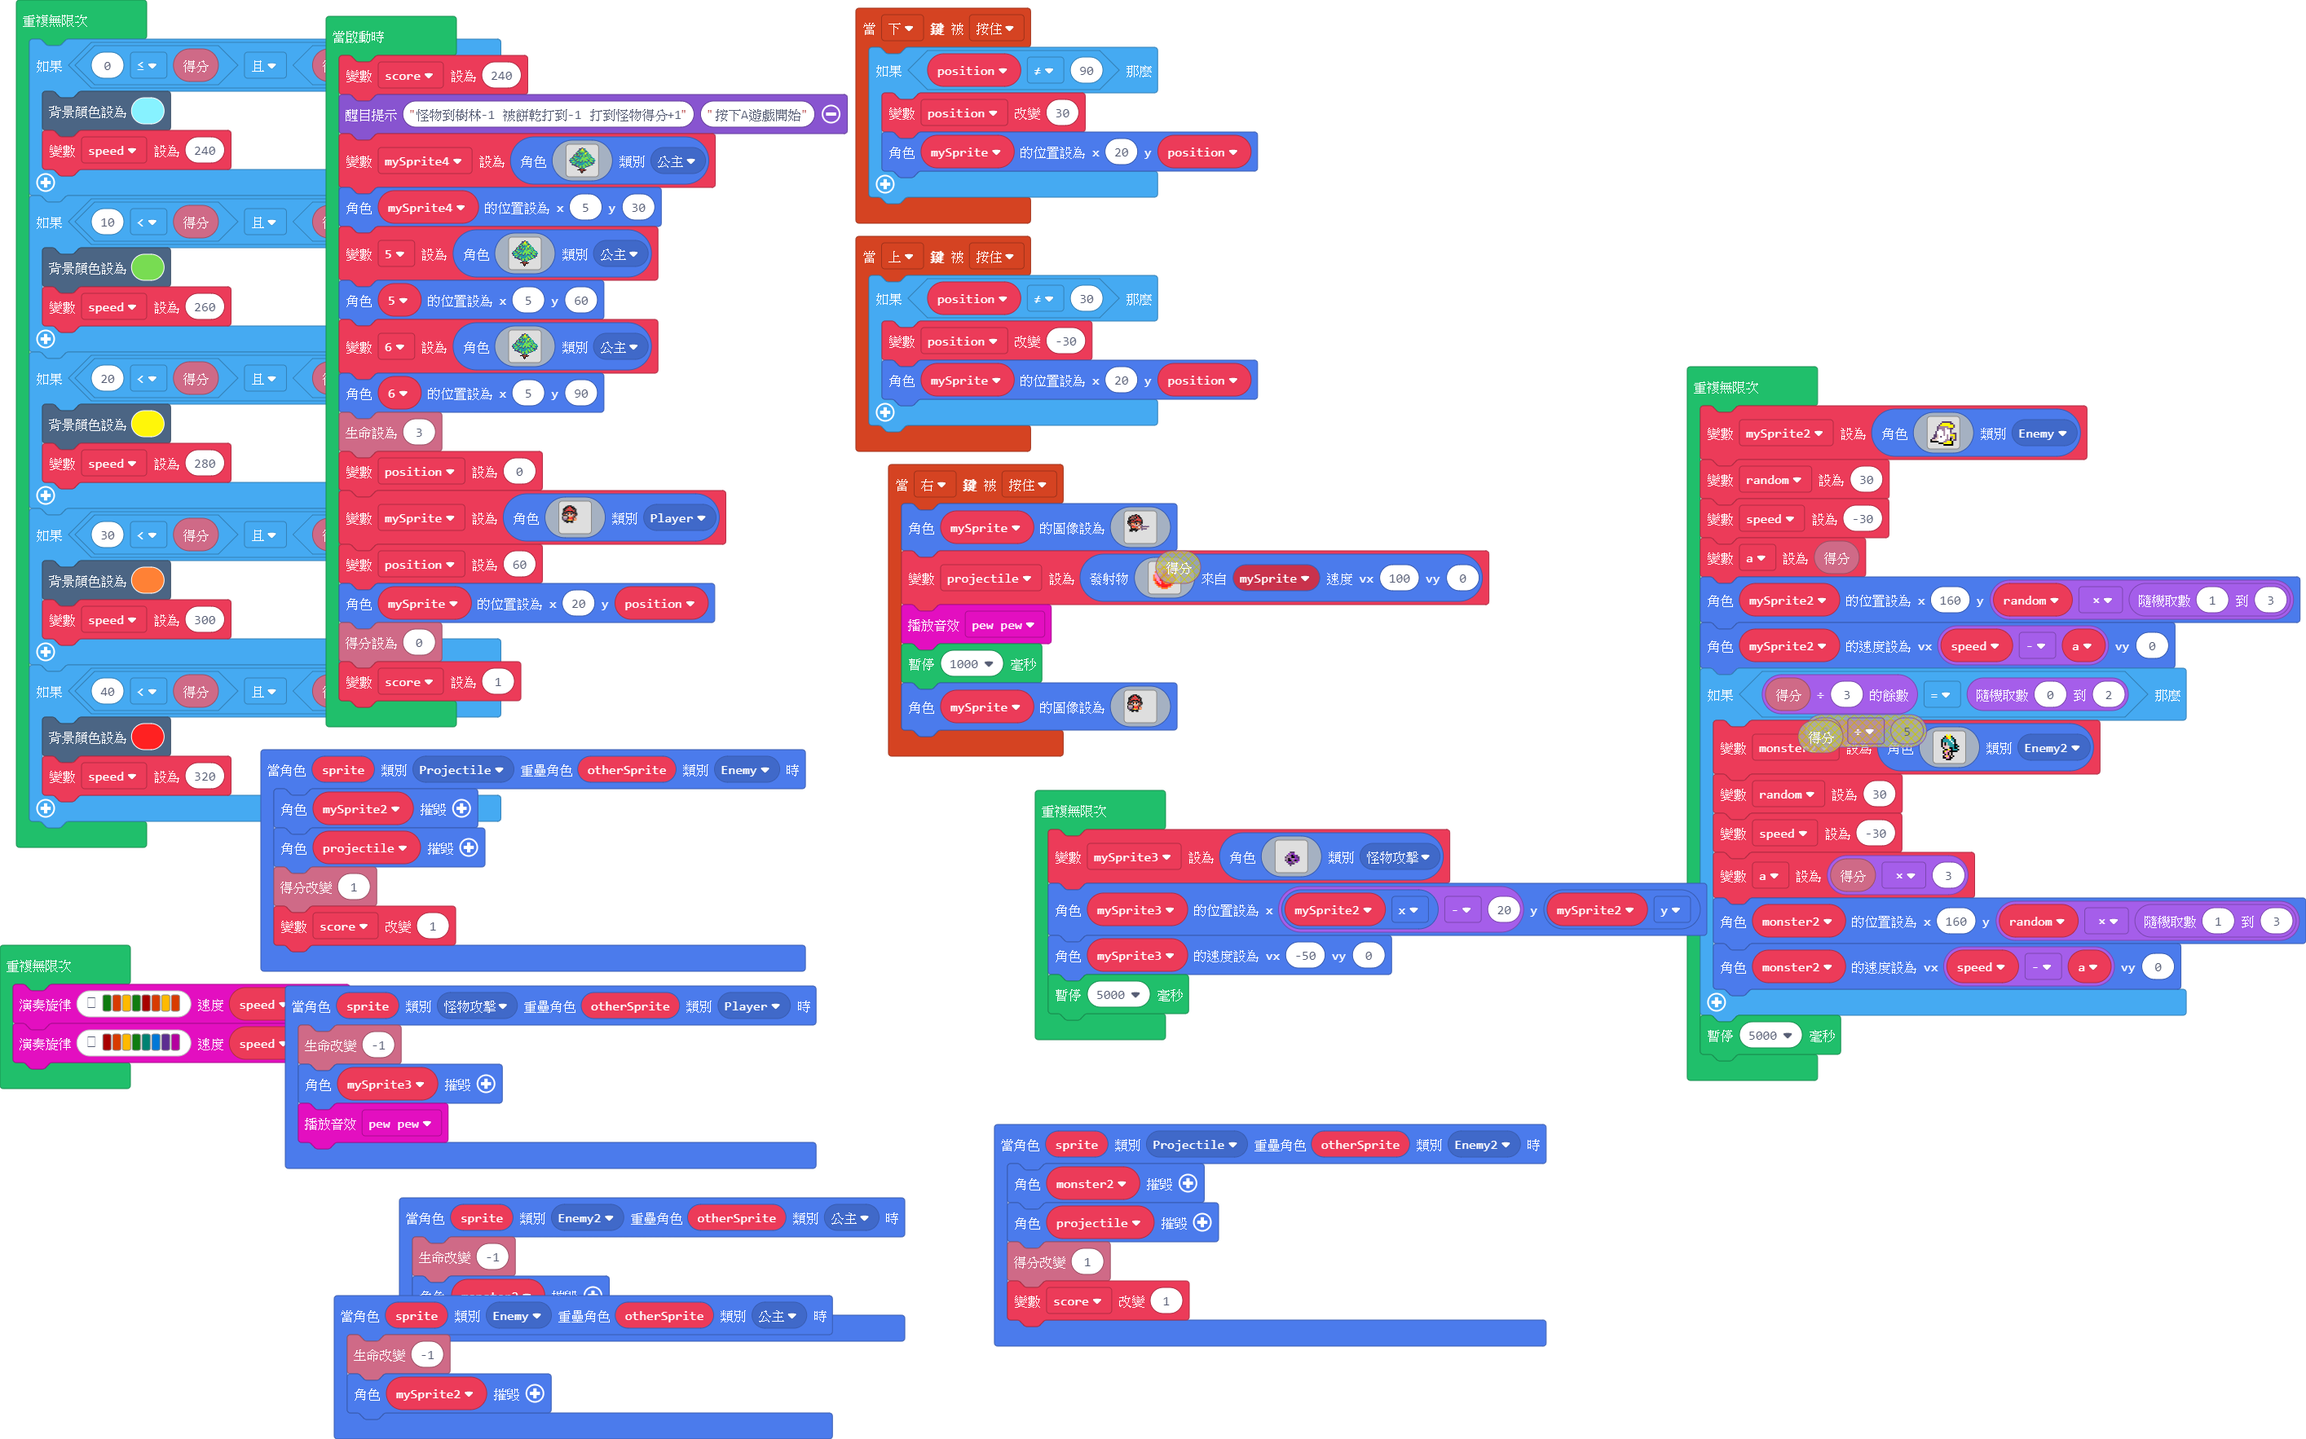
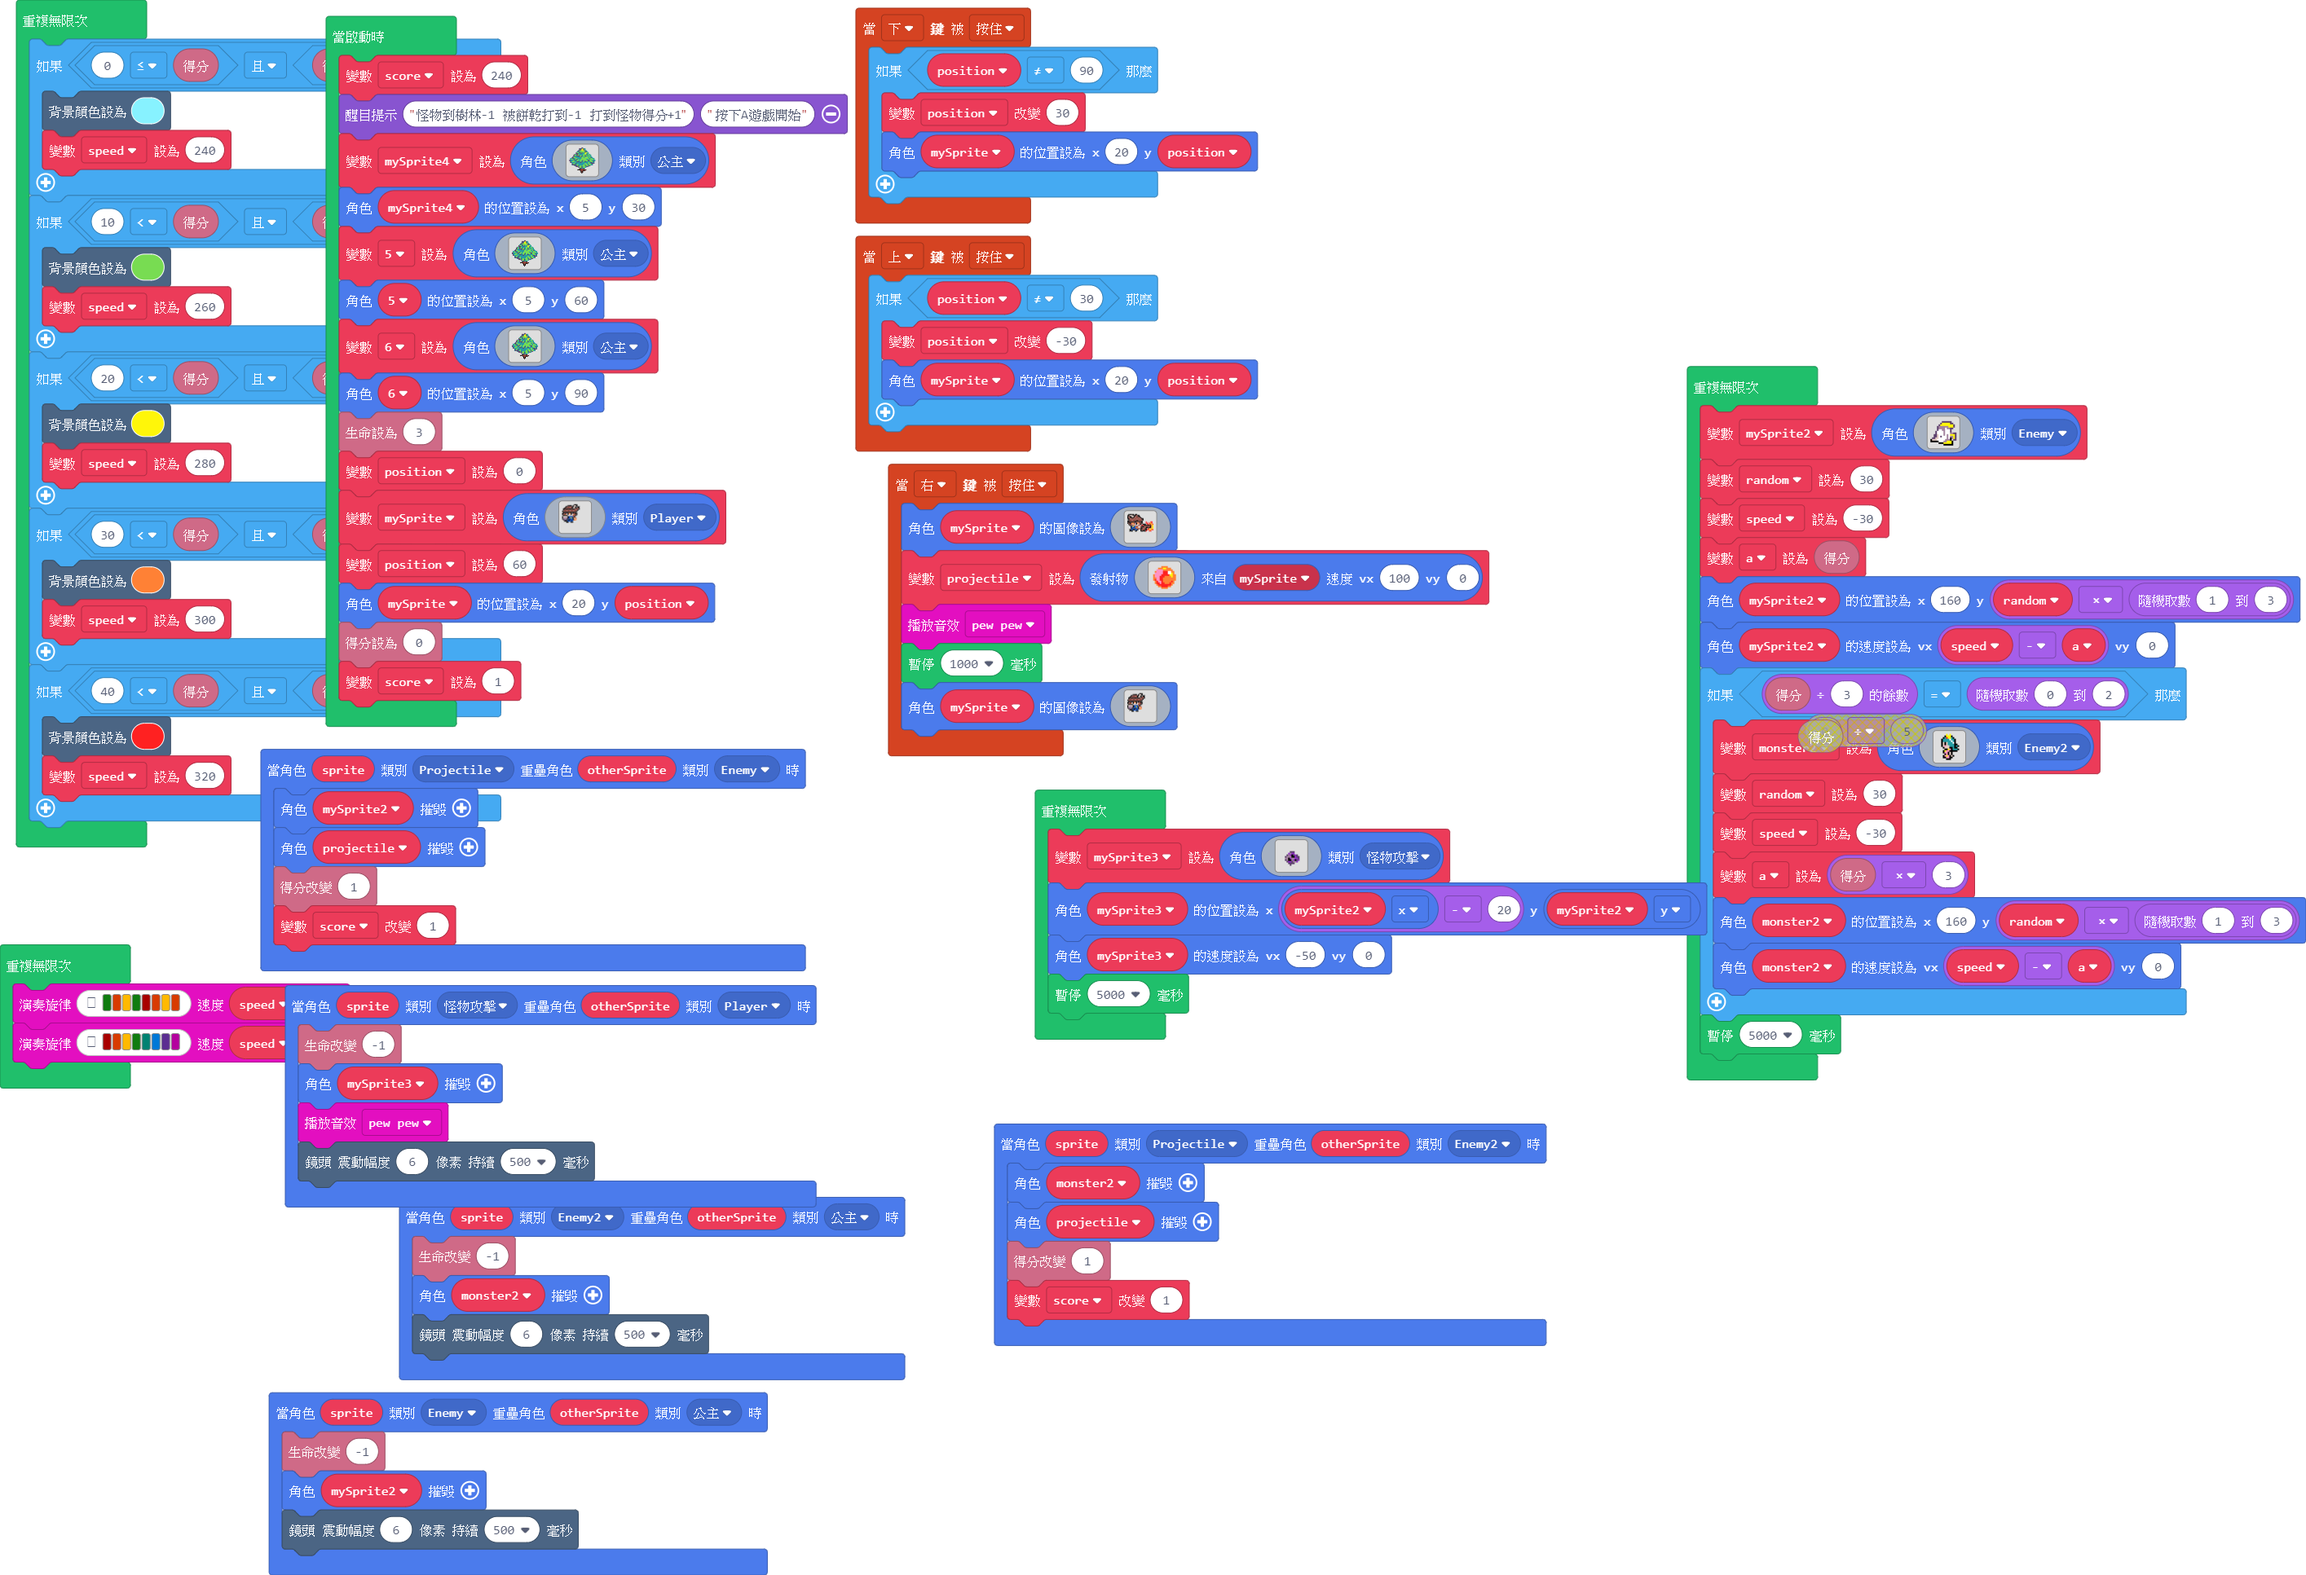
Update main.blocks, main.ts

diff --git a/main.ts b/main.ts
@@ -7,6 +7,7 @@ namespace SpriteKind {
 sprites.onOverlap(SpriteKind.Enemy2, SpriteKind.公主, function (sprite, otherSprite) {
     info.changeLifeBy(-1)
     monster2.destroy()
+    scene.cameraShake(6, 500)
 })
 controller.down.onEvent(ControllerButtonEvent.Pressed, function () {
     if (position != 90) {
@@ -18,6 +19,7 @@ sprites.onOverlap(SpriteKind.怪物攻擊, SpriteKind.Player, function (sprite, 
     info.changeLifeBy(-1)
     mySprite3.destroy()
     music.pewPew.play()
+    scene.cameraShake(6, 500)
 })
 sprites.onOverlap(SpriteKind.Projectile, SpriteKind.Enemy, function (sprite, otherSprite) {
     mySprite2.destroy()
@@ -28,25 +30,26 @@ sprites.onOverlap(SpriteKind.Projectile, SpriteKind.Enemy, function (sprite, oth
 sprites.onOverlap(SpriteKind.Enemy, SpriteKind.公主, function (sprite, otherSprite) {
     info.changeLifeBy(-1)
     mySprite2.destroy()
+    scene.cameraShake(6, 500)
 })
 controller.right.onEvent(ControllerButtonEvent.Pressed, function () {
     mySprite.setImage(img`
-. . . . . . . f f . . . . . . . . . . . . . . . 
-. . . . f f f f 2 f f . . . . . . . . . . . . . 
-. . f f e e e e f 2 f f . . . . . . . . . . . . 
-. f f e e e e e f 2 2 f f . . . . . . . . . . . 
-. f e e e e f f e e e e f . . . . . . . . . . . 
-. f f f f f e e 2 2 2 2 e f . . . . . . . . . . 
-f f f e 2 2 2 f f f f e 2 f . . . . . . . . . . 
-f f f f f f f f e e e f f f . . . . . . . . . . 
-f e f e 4 4 e b f 4 4 e e f . . . . . . . . . . 
-. f e e 4 d 4 b f d d e f . . . . . . . . . . . 
-. . f e e e 4 d d d e e . c . . . . . . . . . . 
-. . . f 2 2 2 2 e e d d e c c c c c c c . . . . 
-. . . f 4 4 4 e 4 4 d d e c d d d d d . . . . . 
-. . . f f f f f e e e e . c c c c c . . . . . . 
-. . f f f f f f f f . . . c . . . . . . . . . . 
-. . f f f . . f f . . . . . . . . . . . . . . . 
+. f f f f f . f f . . . . . . . . . . . . . . . 
+f f d d d f f f e f f . . . . . . . . . . . . . 
+f e f f d d f e e e f f . . . . . . . . . . . . 
+f e e f f f e e e e e e f . . . . . . . . . . . 
+f f e e e e e e e e e e e f f . . . . . . . . . 
+. f e e e e e e e e e e e e f . . . . . . . . . 
+f f e e e e e f f f f e e f . . . . . . . . . . 
+f f f f f f f f e e e f f f . . . 2 . . . 2 2 . 
+f e f e 4 4 e b f 4 4 e e f . . . 2 2 . 2 5 2 . 
+. f e e 4 d 4 b f d d e f . f f f . 2 2 4 2 5 2 
+. . f e e e 4 d d d e e . 2 2 f f f f f f f 4 5 
+. . . f 8 5 8 8 e e d d e f f e e e e e e f 4 5 
+. . . f 8 8 8 e 4 4 d d e f e e e f f f f f 4 5 
+. . . f 8 8 8 8 e e e e f f e e e f . 2 4 4 5 5 
+. . f 8 8 f f 8 8 f . . f e e e f f 2 2 5 5 2 2 
+. . f f f . . f f . . . f f f f f 2 . . 2 2 . . 
 . . . . . . . . . . . . . . . . . . . . . . . . 
 . . . . . . . . . . . . . . . . . . . . . . . . 
 . . . . . . . . . . . . . . . . . . . . . . . . 
@@ -77,22 +80,22 @@ f e f e 4 4 e b f 4 4 e e f . . . . . . . . . .
     music.pewPew.play()
     pause(1000)
     mySprite.setImage(img`
-. . . . . . . . . . . . . . . . . . . . . . . . 
-. . . . . f f f f . . . . . . . . . . . . . . . 
-. . . f f f 2 2 f f f . . . . . . . . . . . . . 
-. . f f f 2 2 2 2 f f f . . . . . . . . . . . . 
-. f f f e e e e e e f f f . . . . . . . . . . . 
-. f f e 2 2 2 2 2 2 e e f . . . . . . . . . . . 
-. f e 2 f f f f f f 2 e f . . . . . . . . . . . 
-. f f f f e e e e f f f f . . . . . . . . . . . 
+. . . . . . . . . . . f f f . . . . . . . . . . 
+. . . . . f f f f . f d d f . . . . . . . . . . 
+. . . f f e e e e f f d f . f f . . . . . . . . 
+. . f e e e e e e f d d f f e f . . . . . . . . 
+. f f f f f f f f f f f e e e f . . . . . . . . 
+. f e e e e e e e e e e e e f . . . . . . . . . 
+f e e e e e e e e e e e e f . . . . . . . . . . 
+. f f f f f f f f f f f f . . . . . . . . . . . 
 f f e f b f 4 4 f b f e f f . . . . . . . . . . 
 f e e 4 1 f d d f 1 4 e e f . . . . . . . . . . 
 . f f f f d d d d d e e f . . . . . . . . . . . 
-f d d d d f 4 4 4 e e f . . . . . . . . . . . . 
-f b b b b f 2 2 2 2 f 4 e . . . . . . . . . . . 
-f b b b b f 2 2 2 2 f d 4 . . . . . . . . . . . 
-. f c c f 4 5 5 4 4 f 4 4 . . . . . . . . . . . 
-. . f f f f f f f f . . . . . . . . . . . . . . 
+f d d d d f 8 8 8 8 e f . . . . . . . . . . . . 
+f b b b b f 8 8 5 8 f 4 e . . . . . . . . . . . 
+f b b b b f 8 8 8 8 f d 4 . . . . . . . . . . . 
+. f c c f 8 f f 8 8 f 4 4 . . . . . . . . . . . 
+. . f f f 8 8 8 8 8 . . . . . . . . . . . . . . 
 . . . . f f . . f f . . . . . . . . . . . . . . 
 . . . . . . . . . . . . . . . . . . . . . . . . 
 . . . . . . . . . . . . . . . . . . . . . . . . 
@@ -234,22 +237,22 @@ _6.setPosition(5, 90)
 info.setLife(3)
 position = 0
 mySprite = sprites.create(img`
-. . . . . . . . . . . . . . . . . . . . . . . . 
-. . . . . f f f f . . . . . . . . . . . . . . . 
-. . . f f f 2 2 f f f . . . . . . . . . . . . . 
-. . f f f 2 2 2 2 f f f . . . . . . . . . . . . 
-. f f f e e e e e e f f f . . . . . . . . . . . 
-. f f e 2 2 2 2 2 2 e e f . . . . . . . . . . . 
-. f e 2 f f f f f f 2 e f . . . . . . . . . . . 
-. f f f f e e e e f f f f . . . . . . . . . . . 
+. . . . . . . . . . . f f f . . . . . . . . . . 
+. . . . . f f f f . f d d f . . . . . . . . . . 
+. . . f f e e e e f f d f . f f . . . . . . . . 
+. . f e e e e e e f d d f f e f . . . . . . . . 
+. f f f f f f f f f f f e e e f . . . . . . . . 
+. f e e e e e e e e e e e e f . . . . . . . . . 
+f e e e e e e e e e e e e f . . . . . . . . . . 
+. f f f f f f f f f f f f . . . . . . . . . . . 
 f f e f b f 4 4 f b f e f f . . . . . . . . . . 
 f e e 4 1 f d d f 1 4 e e f . . . . . . . . . . 
 . f f f f d d d d d e e f . . . . . . . . . . . 
-f d d d d f 4 4 4 e e f . . . . . . . . . . . . 
-f b b b b f 2 2 2 2 f 4 e . . . . . . . . . . . 
-f b b b b f 2 2 2 2 f d 4 . . . . . . . . . . . 
-. f c c f 4 5 5 4 4 f 4 4 . . . . . . . . . . . 
-. . f f f f f f f f . . . . . . . . . . . . . . 
+f d d d d f 8 8 8 8 e f . . . . . . . . . . . . 
+f b b b b f 8 8 5 8 f 4 e . . . . . . . . . . . 
+f b b b b f 8 8 8 8 f d 4 . . . . . . . . . . . 
+. f c c f 8 f f 8 8 f 4 4 . . . . . . . . . . . 
+. . f f f 8 8 8 8 8 . . . . . . . . . . . . . . 
 . . . . f f . . f f . . . . . . . . . . . . . . 
 . . . . . . . . . . . . . . . . . . . . . . . . 
 . . . . . . . . . . . . . . . . . . . . . . . . 
